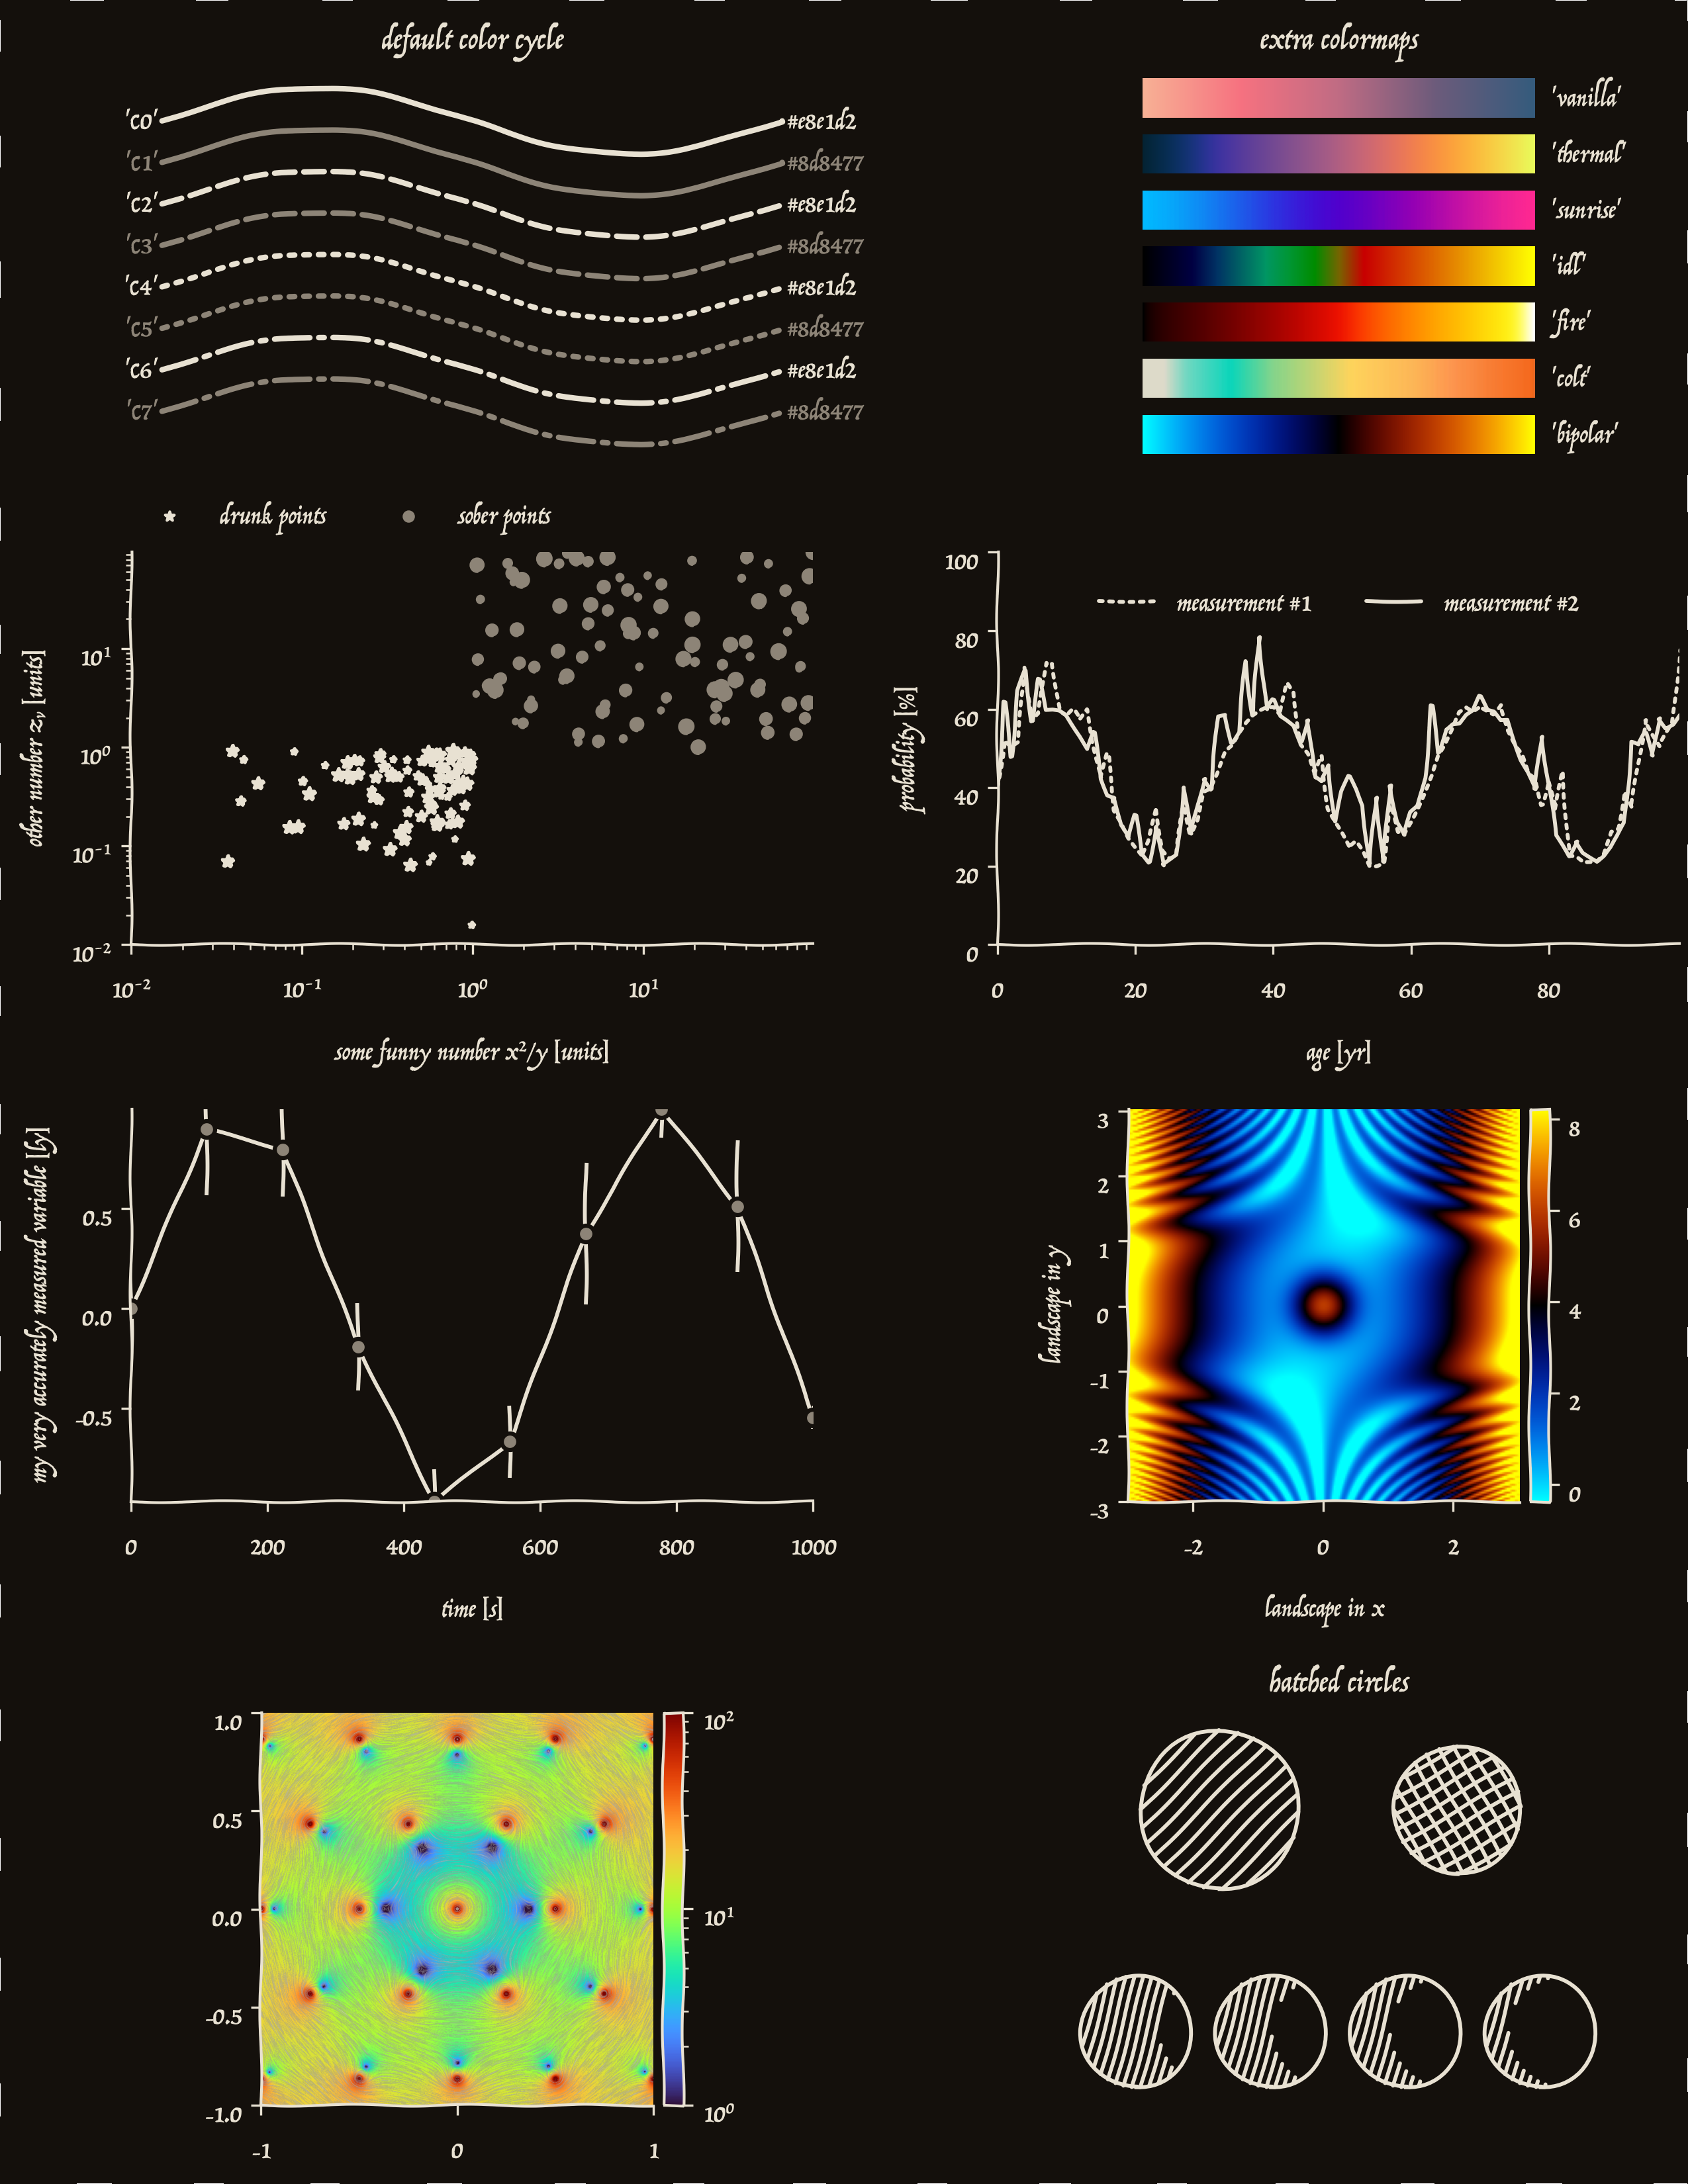
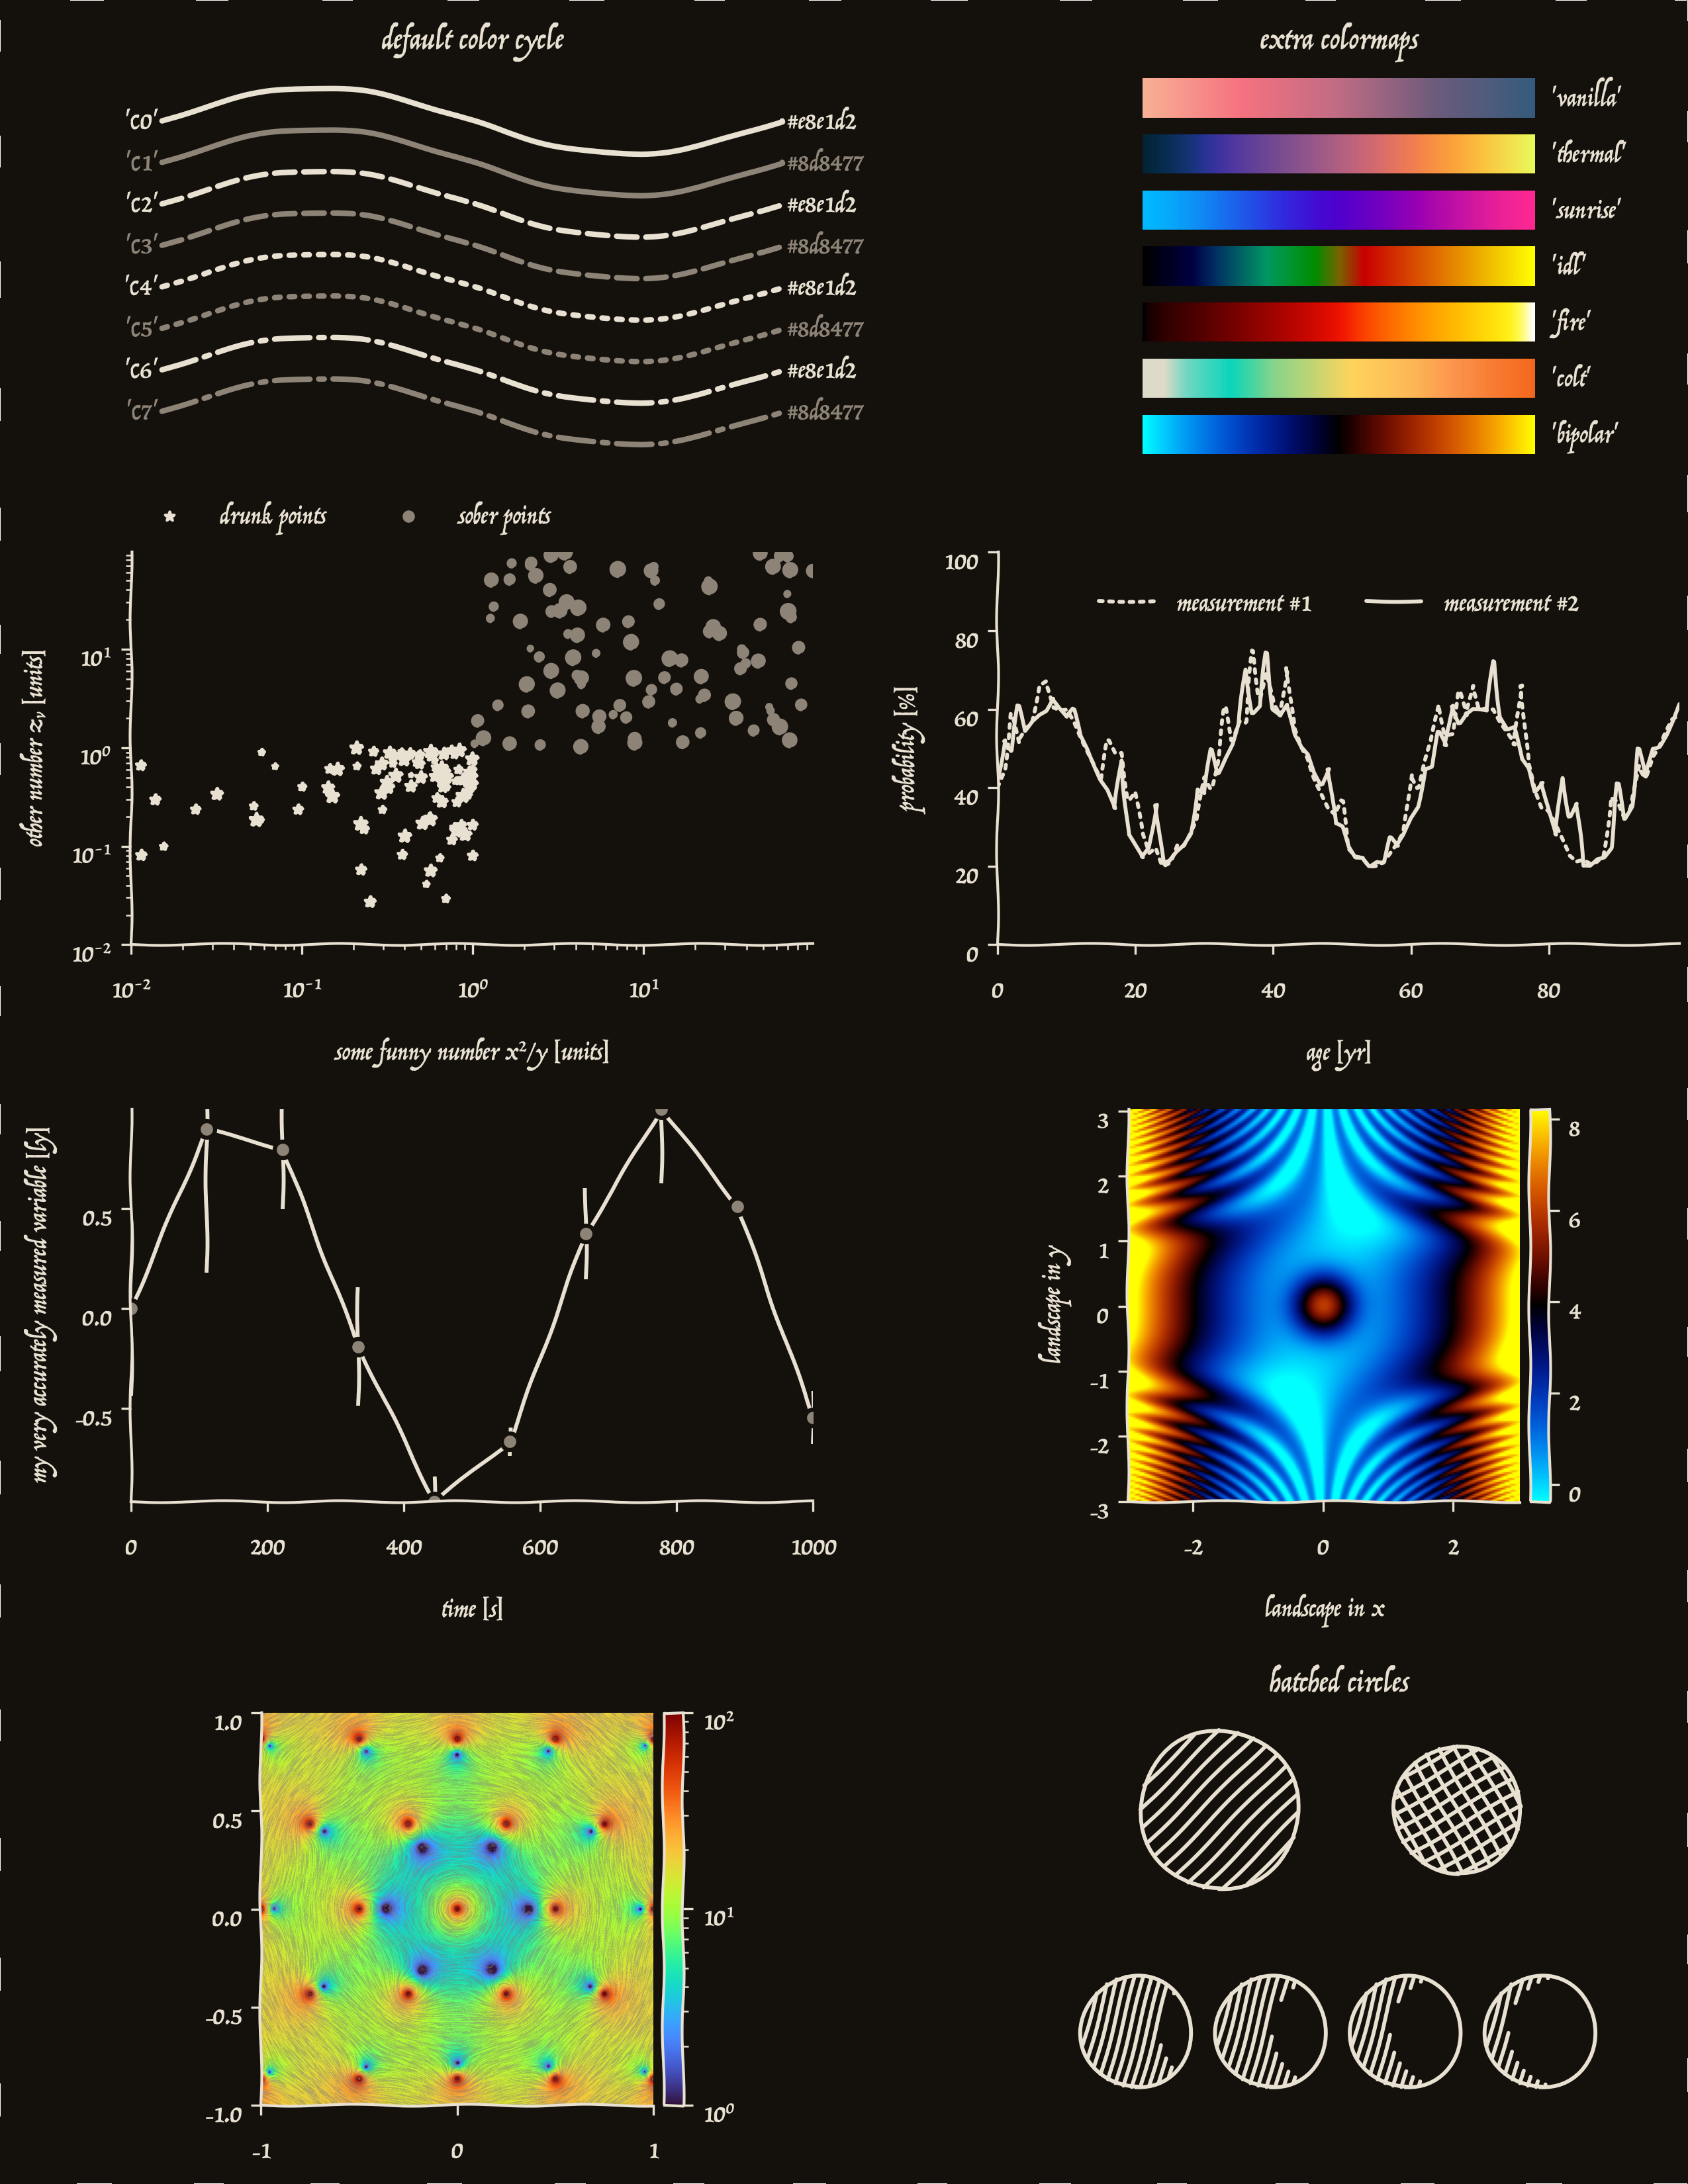
explicit register call

diff --git a/myplotlib/__init__.py b/myplotlib/__init__.py
@@ -78,9 +78,10 @@ def __InstallCmapFromCSV(csv):
     import matplotlib as mpl
 
     cmap = os.path.splitext(os.path.basename(csv))[0]
+    if cmap not in CUSTOM_CMAPS:
+        CUSTOM_CMAPS.append(cmap)
     cmap_data = np.loadtxt(csv, delimiter=",")
     if cmap not in mpl.colormaps.keys():
-        CUSTOM_CMAPS.append(cmap)
         mpl_data = __RGBToPyCmap(cmap_data)
         mpl.colormaps.register(
             cmap=mcolors.LinearSegmentedColormap(cmap, mpl_data, cmap_data.shape[0])
@@ -156,10 +157,33 @@ def __RegisterFonts(font_dir):
 
 myplotlib_path = str(Path(__file__).resolve().parent)
 styles_path = str(Path(myplotlib_path) / "assets")
-__RegisterStyles(styles_path)
 
 CMAP_DIR = str(Path(myplotlib_path) / "assets" / "colormaps")
-CMAPS = __RegisterColormaps(CMAP_DIR)
+CMAPS = []
 
 FONT_DIR = str(Path(myplotlib_path) / "assets" / "fonts")
-font_files = __RegisterFonts(FONT_DIR)
+font_files = []
+
+_ASSETS_REGISTERED = False
+
+
+def register():
+    """Register bundled Matplotlib assets.
+
+    Returns
+    -------
+    None
+        Styles, colormaps, and fonts are registered with Matplotlib in place.
+    """
+    global CMAPS, font_files, _ASSETS_REGISTERED
+
+    if _ASSETS_REGISTERED:
+        return
+
+    __RegisterStyles(styles_path)
+    CMAPS = __RegisterColormaps(CMAP_DIR)
+    font_files = __RegisterFonts(FONT_DIR)
+    _ASSETS_REGISTERED = True
+
+
+register()

diff --git a/previews/export_previews.py b/previews/export_previews.py
@@ -2,7 +2,6 @@ import os
 import logging
 import matplotlib.pyplot as plt
 
-import myplotlib
 import myplotlib.tests as mypltests
 import argparse
 

diff --git a/README.md b/README.md
@@ -13,8 +13,10 @@ pip install myplotlib
 ### loading style, fonts & colormaps
 
 ```python
-import myplotlib
 import matplotlib.pyplot as plt
+from myplotlib import register
+
+register()
 
 plt.style.use(STYLE)
 # STYLE can be:
@@ -32,6 +34,8 @@ with plt.style.context(STYLE):
     plt.plot(...)
 ```
 
+> `register()` loads the bundled styles, fonts, and colormaps into Matplotlib. importing `myplotlib` still registers them for backward compatibility, but the explicit call keeps linters from flagging an unused side-effect import.
+
 ### auxiliary plotting functions
 
 ```python
@@ -48,7 +52,7 @@ import myplotlib.tests as mypltest
 mypltest?
 ```
 
-the `guttenberg` styles mimic renaissance-era book illustrations: old-style lettering (IM Fell, with EB Garamond as fallback for greek/cyrillic), imperfect hand-drawn lines, and a single-ink line cycle. they pair well with `myplt.hatchedCircle`, which shades circles with engraving-style hatching (optionally only the crescent shadow, as on old drawings of moon phases):
+the `guttenberg` styles mimic renaissance-era book illustrations: old-style lettering (P22 Operina Pro, with EB Garamond as fallback for missing glyphs), imperfect hand-drawn lines, and a single-ink line cycle. they pair well with `myplt.hatchedCircle`, which shades circles with engraving-style hatching (optionally only the crescent shadow, as on old drawings of moon phases):
 
 ```python
 with plt.style.context("guttenberg.light"):
@@ -66,20 +70,6 @@ for more usage examples checkout the `tests/` submodule.
 * `matplotlib >= 3.5.0`, `numpy`
 * `latex` (used for `fancy` and `latex` only)
 * `numba>=0.57.0`
-
-## development
-
-when deploying a new version, there are three necessary steps to take.
-
-1. increase the version string in `myplotlib/__init__.py`.
-2. generate the previews:
-    ```sh
-    python3 previews/export_previews.py
-    ```
-3. build the new tarballs in the `dist` directory:
-    ```sh
-    python -m build --sdist --outdir dist .
-    ```
 
 ## To-do
 